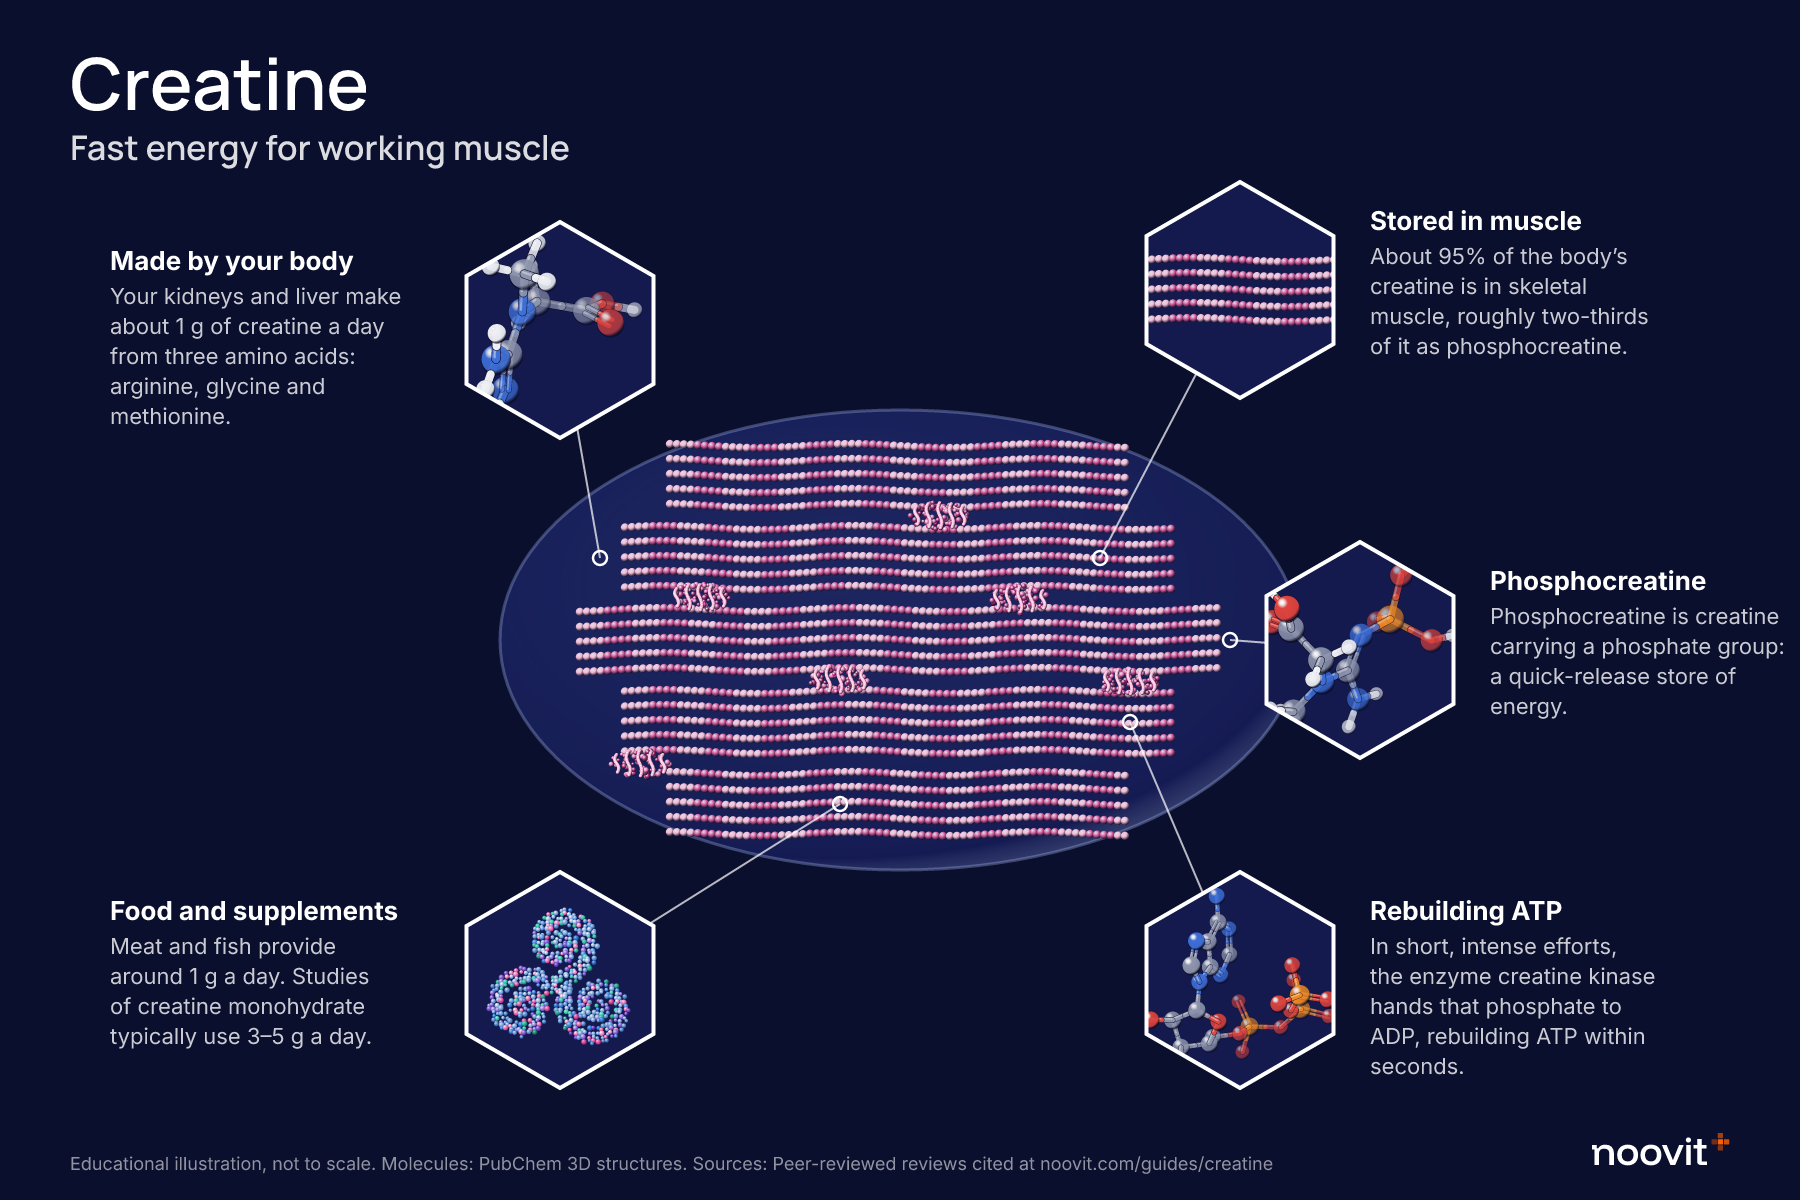
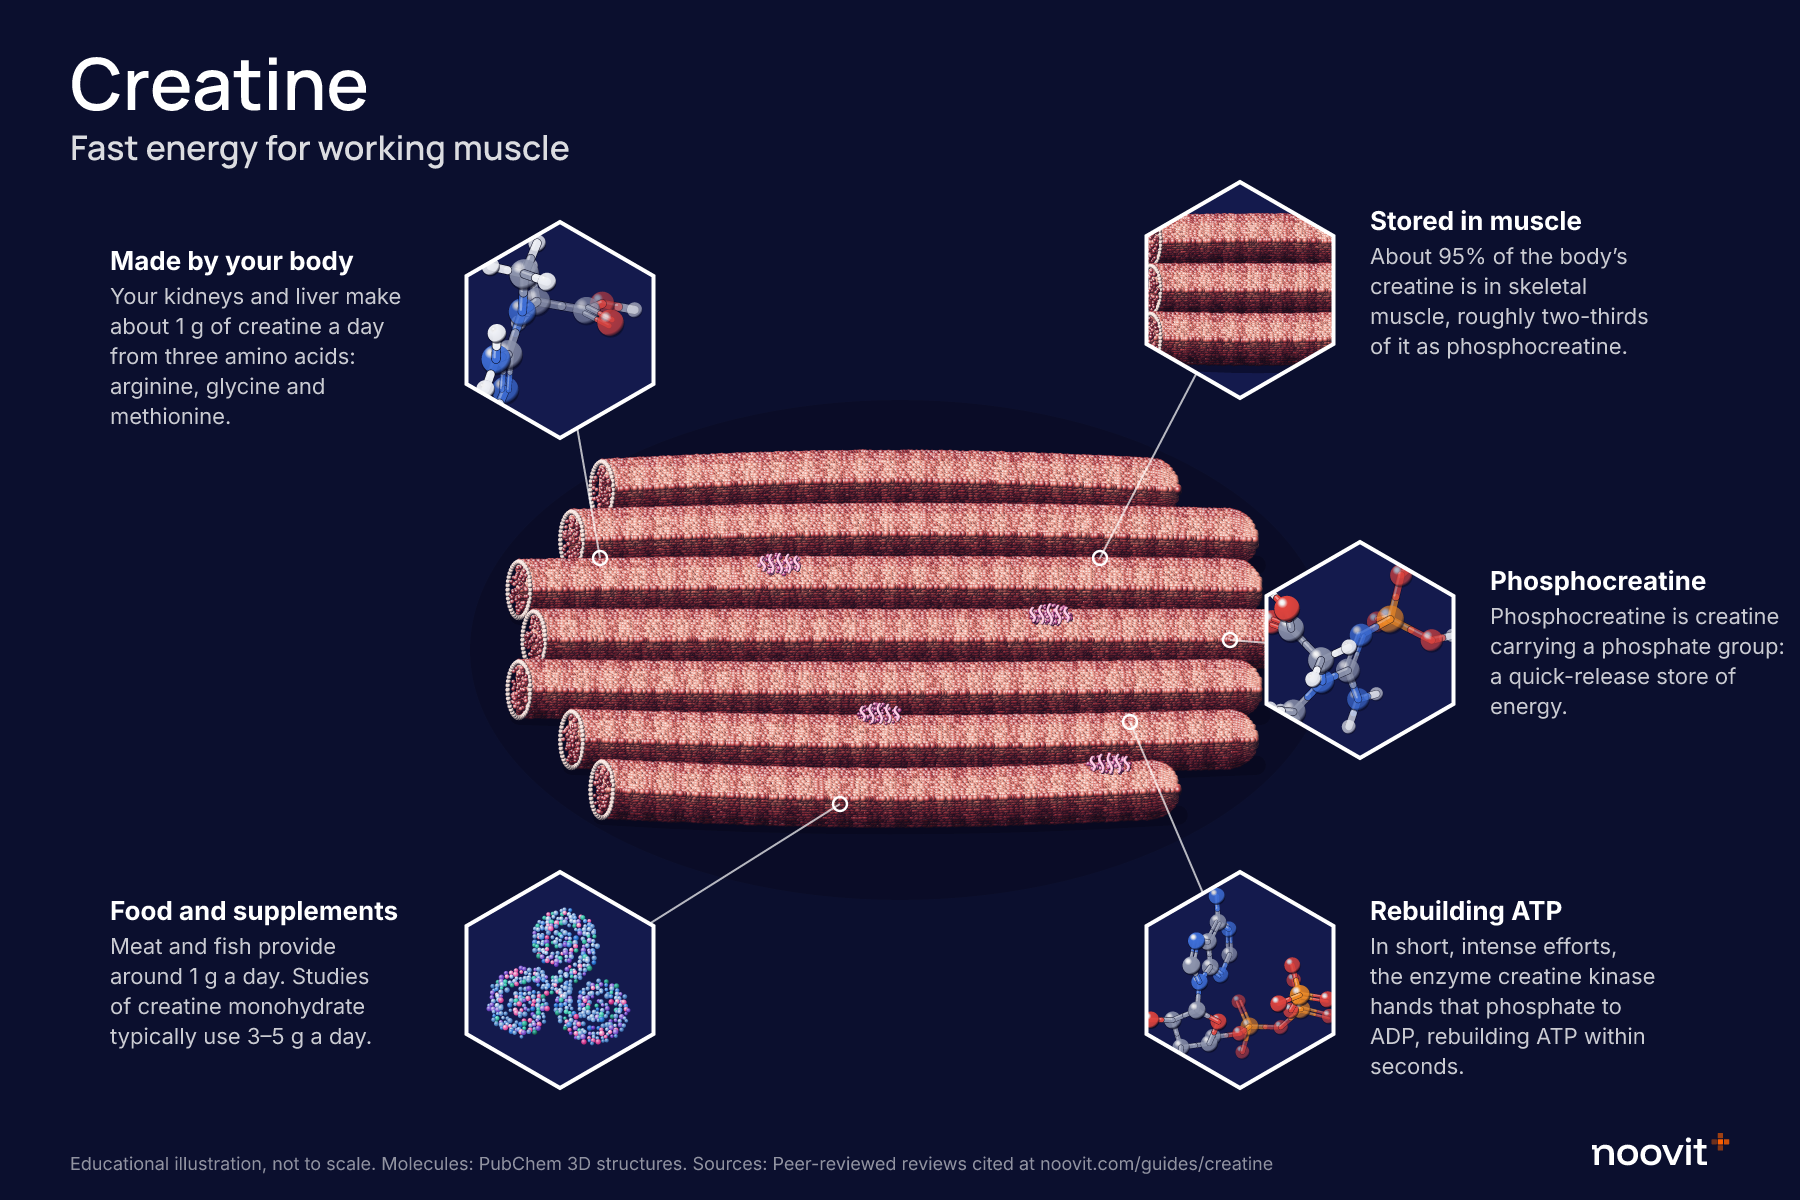
Creatine infographic: fleshy muscle fascicle (lit, striated fibres with cut ends)
Claude-Session: https://claude.ai/code/session_01AgHwmMXyw3TzvCrzNnVa8R

Changed region(s): [[0.28, 0.3392, 0.7156, 0.74], [0.6222, 0.1542, 0.7467, 0.3083]]

diff --git a/scripts/infographic.ts b/scripts/infographic.ts
@@ -101,14 +101,8 @@ const miniCells = (cx: number, cy: number) =>
   [[-45, -25, 42], [40, -35, 36], [-10, 40, 46], [60, 40, 30]].map(([x, y, r]) =>
     `<circle cx="${cx + x}" cy="${cy + y}" r="${r}" fill="#24308A" fill-opacity="0.6" stroke="#AFC2FF" stroke-opacity="0.5" stroke-width="2"/>` + blob(cx + x, cy + y, r * 0.45, r * 0.45, [CREAM, '#E9D6B4'], 2.6, 1.2)).join('');
 const enzyme = (cx: number, cy: number) => blob(cx, cy, 80, 62, [TEAL, '#1F8C83', LAV, COBALT], 4, 1.2) + dot(cx + 18, cy - 8, 11, '#B9C7D6') + `<circle cx="${cx + 18}" cy="${cy - 8}" r="17" fill="none" stroke="#fff" stroke-opacity="0.7" stroke-dasharray="3 3"/>`;
-const fibre = (cx: number, cy: number, w = 200) => {
-  const out: string[] = [];
-  for (let row = -2; row <= 2; row++) for (let x = -w / 2; x <= w / 2; x += 7) {
-    const band = Math.floor((x + w / 2) / 28) % 2;
-    out.push(dot(cx + x, cy + row * 15 + Math.sin(x / 30) * 2, 4.2, band ? '#D25A9C' : '#F2B6D4'));
-  }
-  return out.join('');
-};
+// Hexagon close-up: three striated muscle fibres (drawn with the same flesh cylinders as the centre illustration).
+const fibre = (cx: number, cy: number, w = 200) => [-48, 0, 48].map((dy, i) => fibreCyl(cx - w / 2 + 6, cx + w / 2 + 30, cy + dy, 48, (i - 1) * 2, 2.8, 12)).join('');
 const bone = (cx: number, cy: number) => {
   const out: string[] = [];
   for (let gy = -3; gy <= 3; gy++) for (let gx = -4; gx <= 4; gx++) {
@@ -122,13 +116,50 @@ const brandShape = (slug: string, cx: number, cy: number, size: number) =>
   particleShape(SEED_PRODUCTS.find((p) => p.slug === slug)! as never, cx - size / 2, cy - size / 2, size, '#7FA6D8', { spectrum: true, bead: 2.4 });
 
 // ---- central illustrations ----
-function muscle() {
-  const out: string[] = [`<ellipse cx="${CX}" cy="${CY}" rx="400" ry="230" fill="url(#mem)" stroke="#AFC2FF" stroke-opacity="0.3" stroke-width="3"/>`];
-  for (let k = -2; k <= 2; k++) out.push(fibre(CX, CY + k * 82, 640 - Math.abs(k) * 90));
-  for (const [x, y] of [[-200, -42], [120, -40], [-60, 40], [230, 42], [-260, 124], [40, -124]]) out.push(mito(CX + x, CY + y, 60, 0, 2.4));
+// Creatine (21 Nov, owner: "more flesh, less flat"): a skeletal-muscle fascicle. Each fibre is a round, flesh-coloured
+// cylinder shaded light-to-dark across its width, with the transverse striations (sarcomere bands) of skeletal muscle;
+// the left ends are cut to show the myofibrils packed inside, each fibre wrapped in pale connective tissue
+// (endomysium). Schematic, not to scale.
+const FLESH = ['#F9C2B4', '#EE9483', '#DC6A61', '#C4474B', '#A2303C', '#78202E', '#4A121D'];
+// One fibre: a cylinder of beads lit from above (highlight band in the upper third, dark underside), alternating
+// darker/lighter sarcomere bands along its length, a rounded far end, a cast shadow below, and a cut near end showing
+// the myofibrils (deep red dots) inside a pale endomysium rim.
+function fibreCyl(x0: number, x1: number, y: number, w: number, bow: number, r = 3.2, band = 14) {
+  const out: string[] = [], R = w / 2, L = x1 - x0;
+  out.push(`<path d="M${n(x0)} ${n(y + R * 0.9)} Q ${n((x0 + x1) / 2)} ${n(y + bow + R * 1.25)} ${n(x1)} ${n(y + R * 0.9)}" stroke="#05061a" stroke-opacity="0.55" stroke-width="${n(R * 0.7)}" fill="none" stroke-linecap="round"/>`);
+  const beads: { x: number; y: number; z: number; c: string; r: number }[] = [];
+  for (let x = x0; x <= x1; x += r * 0.8) {
+    const t = (x - x0) / L, yc = y + bow * Math.sin(Math.PI * t);
+    const dEnd = x1 - x, cap = dEnd < R ? Math.sqrt(Math.max(0, 1 - ((R - dEnd) / R) ** 2)) : 1;
+    const stripe = Math.floor((x - x0) / band) % 2 === 1;
+    for (let v = -1; v <= 1; v += (r * 0.8) / R) {
+      const vv = v * cap + (rnd() - 0.5) * 0.03;
+      const lit = 0.5 + 0.5 * Math.cos((vv + 0.35) * Math.PI * 0.62); // brightest just above centre
+      let ci = Math.round((1 - lit) * (FLESH.length - 2)) + (stripe ? 1 : 0);
+      if (lit > 0.95 && !stripe && rnd() < 0.35) ci = 0;
+      beads.push({ x: x + (rnd() - 0.5) * r * 0.25, y: yc + vv * R, z: Math.cos(vv * Math.PI / 2), c: FLESH[Math.max(0, Math.min(FLESH.length - 1, ci + 1))], r: r * (0.95 + 0.15 * rnd()) });
+    }
+  }
+  beads.sort((p, q) => p.z - q.z);
+  for (const bd of beads) out.push(dot(bd.x, bd.y, bd.r, bd.c));
+  // cut face
+  for (let i = 0; i < 40; i++) { const ang = (i / 40) * Math.PI * 2; out.push(dot(x0 + Math.cos(ang) * R * 0.4, y + Math.sin(ang) * R, r * 0.8, '#F7DDD4')); }
+  for (let i = 0; i < Math.round(R * 2.4); i++) { const ang = rnd() * Math.PI * 2, d = Math.sqrt(rnd()) * 0.84; out.push(dot(x0 + Math.cos(ang) * R * 0.36 * d, y + Math.sin(ang) * R * d, r * 0.7, ['#B23A49', '#8C2636', '#D45E66'][Math.floor(rnd() * 3)])); }
   return out.join('');
 }
-
+function muscle() {
+  const out: string[] = [`<ellipse cx="${CX}" cy="${CY + 10}" rx="430" ry="250" fill="#05061a" fill-opacity="0.35"/>`];
+  // back to front: upper fibres first so lower ones overlap them (reads as a round bundle)
+  const rows = [-150, -100, -50, 0, 50, 100, 150];
+  for (const [i, dy] of rows.entries()) {
+    const half = 380 * Math.sqrt(1 - (dy / 230) ** 2);
+    const shift = (i % 2 ? 14 : -10);
+    out.push(fibreCyl(CX - half + shift, CX + half + shift, CY + dy, 56, (i - 3) * 3));
+  }
+  // a few mitochondria sitting in the gaps between fibres
+  for (const [x, y] of [[-120, -76], [150, -25], [-20, 74], [210, 124]]) out.push(mito(CX + x, CY + y, 44, 0, 2));
+  return out.join('');
+}
 // Ashwagandha: a fleshy taproot that forks, with fine rootlets, shaded light-to-dark across its width so it reads as
 // round; above the ground line, oval leaves and the plant's orange-red berries in papery husks. Schematic, not to scale.
 const ROOT = ['#F6EBD6', '#EBD9B8', '#DCC49B', '#C7A97C', '#A88A5F'], LEAF = ['#8FCB8A', '#5FA66A', '#3F8552', '#2B6040'];

diff --git a/docs/TODO.md b/docs/TODO.md
@@ -5,7 +5,7 @@ _Consolidated 28 Oct 2026 from the whole build conversation. **Owner** = only yo
 ## 🔴 Before launch: owner
 - [ ] **(20 Nov) Run `supabase/manual/2026-11-20-journal-keywords.sql`** in Supabase (replaces the 19 Nov file; if you already ran that one, run this anyway). It adds the 6 new Journal posts (magnesium test at home 27 Nov, magnesium glycinate for women 1 Dec, low ferritin symptoms 9 Dec, ashwagandha for women 12 Dec, ashwagandha with maca 19 Dec), moves glycinate vs threonate (24 Nov) and ubiquinol vs CoQ10 (25 Nov) earlier so they're live at launch, applies the keyword SEO titles, and adds a "best creatine for women" section to that post. Before 27 Nov, open https://ods.od.nih.gov/factsheets/Magnesium-HealthProfessional/ once to confirm the figures quoted (this environment can't reach it).
 - [x] **(20 Nov) SEO and feed audit:** all 69 sitemap pages crawled (`node scripts/seo-audit.mjs`): structured data on every page (breadcrumbs, CollectionPage lists, FAQPage, AboutPage/ContactPage; Organization + WebSite on the homepage), titles ≤ 60 and descriptions ≤ 160, one H1, canonicals, OG; `/pets` now indexed (kit waitlists). Product data: all gallery images, search-words name, return method. Feeds: 4 extra images, free-shipping times, product highlights (supports-style only), product type by goal, bundle flag, custom labels (goal, for-her) for campaigns. **After launch:** test 2–3 product URLs in Google's Rich Results Test and fetch the feed in Merchant Center.
-- [ ] **(20 Nov) 7 guides public before launch** (magnesium, magnesium glycinate, creatine, lion's mane, CoQ10, ashwagandha, turmeric; `lib/public-early.ts`). Live on noovit.com (verified 21 Nov). **Owner:** follow `docs/SEARCH_CONSOLE_SETUP.md` (verify the domain; send me the TXT value and I add it in Vercel DNS; submit the sitemap; request indexing; add Bing). Add biotin once its ODS/FDA checks are done.
+- [x] **(20 Nov) 7 guides public before launch** (`lib/public-early.ts`), live on noovit.com; Search Console set up by the owner (21 Nov). Still to do: add the site to Bing Webmaster Tools (import from Search Console); make biotin public once its ODS/FDA checks are done.
 - [ ] **(20 Nov) Waiting for you: studio tub render. Creatine shows as a capsule bottle** in its product photos and stack shots; it's a 281 g tub. **Owner:** supply a studio tub render matching `assets/mockups/studio-bottle.jpg` (same grey studio, light and angle, plain white tub with a blank wrap label); then I map the tub label onto it for every powder (creatine, creatine for her/men, hydration, collagen, colostrum) and the group shots.
 - [ ] **(21 Nov) Waiting for you: review the 3D social images.** Infographics (CoQ10, magnesium, creatine, ashwagandha) and "meet the molecule" posts (CoQ10, creatine (new), curcumin, withaferin A) are regenerated in the 3D style in `design/social/` (`infographic-*.png`, `molecule-*.png`). Check them, and replace any older 2D versions already scheduled or posted. Magnesium has no molecule post: magnesium glycinate is a metal complex with no reliable 3D model, so its infographic uses Mg-ATP instead.
 - [ ] **(21 Nov) Evidence-file guide layout** is live on magnesium glycinate only (`layout: 'file'` in lib/guides.ts): file header with evidence stamps, sticky contents list with scroll-spy and progress, numbered section cards, gentle scroll reveal (no animation library). **Owner:** review it; if approved, switch every guide to it (one line each).

diff --git a/docs/PROGRESS.md b/docs/PROGRESS.md
@@ -237,3 +237,4 @@ Status: **Have** · **Phase N** = planned (Phases 1–2 done Oct 2026) · **Tool
 - [x] 20 Nov (71): 7 finished guides public + indexable pre-launch (lib/public-early.ts); STI figure accuracy pass; bead-style figures for 7 more kits (PubChem molecules: cortisol, testosterone, 25(OH)D, T4, cholesterol, estradiol; red blood cells), scripts/test-art.ts; stack folder restyled in site palette.
 - [x] 21 Nov (72): 3D molecule figures (PubChem 3D conformers, data/molecules3d.json); test<->supplement links (lib/test-pairings.ts) on kit and product pages; evidence-file guide prototype on magnesium glycinate (GuideToc scroll-spy, Reveal); test kit page redesign (test panel card, numbered marker cards); crawler files no longer noindex; docs/SEARCH_CONSOLE_SETUP.md.
 - [x] 21 Nov (73): shared 3D renderer lib/labels/molecule3d.ts; infographics and meet-the-molecule posts converted to 3D (CoQ10 conformer computed with RDKit from PubChem, labelled); new creatine molecule post.
+- [x] 21 Nov (74): creatine infographic muscle redrawn as a fleshy skeletal-muscle fascicle (lit cylinder fibres, sarcomere bands, cut ends with myofibrils); Search Console done (owner).
